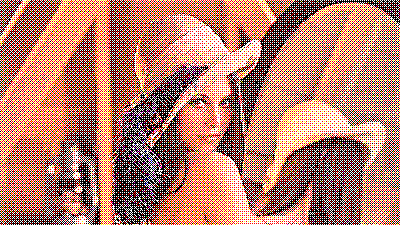
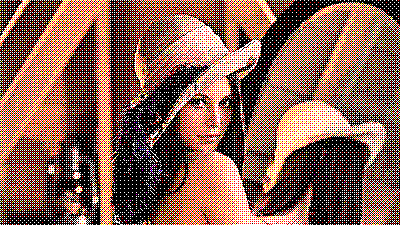
Update: 大津の手法

Changed region(s): [[0.0, 0.0, 1.0, 1.0]]

diff --git a/src/generator.py b/src/generator.py
@@ -12,14 +12,17 @@ def main():
     input_img_path = Path(f"image/input/{img_name}.jpg")
     output_img_path = Path(f"image/output/{img_name}.png")
     
+    # 画像読み込み
     input_img = cv2.imread(str(input_img_path))
+
+    # もろもろの処理
     resized_img = resize_img(input_img, resize_ratio)
-
-    corrected_img = saturation_up(gamma_correction(tonecurve(resized_img)), saturation_ratio)
+    corrected_img = saturation_up(gamma_curve(tone_curve(resized_img)), saturation_ratio)
     dithered_64color_img = process_dithering_64color(corrected_img)
+    binarized_img = binarize_img(dithered_64color_img)
 
-    # cv2.imwrite(str(output_img_path.with_name(f"{img_name}_dithered_64.png").as_posix()), dithered_64color_img)
-    cv2.imwrite(str(output_img_path), binarize_img(dithered_64color_img))
+    # 画像書き込み
+    cv2.imwrite(str(output_img_path), binarized_img)
 
 
 def process_dithering_8color(img):
@@ -33,18 +36,17 @@ def process_dithering_8color(img):
         [15, 7, 13, 5]
     ]) * (2**4)
     
-    # 画像サイズの取得, 処理後の画像を宣言
-    hight, width, ch = img.shape
+    # 画像サイズの取得
+    hight, width, _ = img.shape
 
     # 画像サイズのdither_matrixを取得(切り上げ演算)
     tiled_dither_matrix_grayscale = np.tile(dither_matrix, (-(-hight // 4), -(-width // 4)))[:hight, :width]
-    # 3ch化
     tiled_dither_matrix = np.stack(
         [tiled_dither_matrix_grayscale, tiled_dither_matrix_grayscale, tiled_dither_matrix_grayscale],
         axis=2
     )
 
-    return np.where((img < tiled_dither_matrix), 0, 255)
+    return np.where((img < tiled_dither_matrix), 0, 255).astype(np.uint8)
 
 
 
@@ -59,12 +61,11 @@ def process_dithering_64color(img):
         [15, 7, 13, 5]
     ]) * (2**4)
     
-    # 画像サイズの取得, 処理後の画像を宣言
-    hight, width, ch = img.shape
+    # 画像サイズの取得
+    hight, width, _ = img.shape
 
     # 画像サイズのdither_matrixを取得(切り上げ演算)
     tiled_dither_matrix_grayscale = np.tile(dither_matrix, (-(-hight // 4), -(-width // 4)))[:hight, :width]
-    # 3ch化
     tiled_dither_matrix = np.stack(
         [tiled_dither_matrix_grayscale, tiled_dither_matrix_grayscale, tiled_dither_matrix_grayscale],
         axis=2
@@ -75,24 +76,31 @@ def process_dithering_64color(img):
 
     # うまいこと4値化する
     processed_img = np.where((0 <= diff_img_matrix) & (diff_img_matrix < 255/4), 0, diff_img_matrix)
-    processed_img = np.where((255/4 <= diff_img_matrix) & (diff_img_matrix < 255/2), 255/3, processed_img)
-    processed_img = np.where((255/2 <= diff_img_matrix) & (diff_img_matrix < 255/4*3), 255/3*2, processed_img)
+    processed_img = np.where((255/4 <= diff_img_matrix) & (diff_img_matrix < 255/2), 255//3, processed_img)
+    processed_img = np.where((255/2 <= diff_img_matrix) & (diff_img_matrix < 255/4*3), 255//3*2, processed_img)
     processed_img = np.where((255/4*3 <= diff_img_matrix), 255, processed_img)
     
-    return processed_img
+    return processed_img.astype(np.uint8)
 
 
-# TODO: 実装
 def process_dithering_256color(img):
-    """ディザリングで R:G:B=3bit:3bit:2bit の64色へ減色
+    """ディザリングで R:G:B=3bit:3bit:2bit の256色へ減色
     """
-    return 0
+    # TODO: 実装
+    return 
 
 
 def binarize_img(img):
-    """2値化
+    """変わるかわからんが大津の手法を利用して2値化
+        NOTE: OpenCVの大津の手法はグレースケールしか対応してない
     """
-    _, processed_img = cv2.threshold(img, 128, 255, cv2.THRESH_BINARY)
+    # _, processed_img = cv2.threshold(img, 128, 255, cv2.THRESH_BINARY)
+    processed_img = np.zeros(img.shape)
+    b, g, r = cv2.split(img)
+    
+    _, processed_img[:, :, 0] = cv2.threshold(b, 0, 255, cv2.THRESH_BINARY+cv2.THRESH_OTSU)
+    _, processed_img[:, :, 1] = cv2.threshold(g, 0, 255, cv2.THRESH_BINARY+cv2.THRESH_OTSU)
+    _, processed_img[:, :, 2] = cv2.threshold(r, 0, 255, cv2.THRESH_BINARY+cv2.THRESH_OTSU)
     return processed_img
 
 
@@ -103,7 +111,7 @@ def resize_img(img, ratio):
     return processed_img
 
 
-def gamma_correction(img, gamma=2.2):
+def gamma_curve(img, gamma=2.2):
     """暗いところを持ち上げるように補正
     """
     nomalized_img = img.astype(np.float32) / 255
@@ -111,9 +119,9 @@ def gamma_correction(img, gamma=2.2):
     return (gammaed_img * 255).astype(np.uint8)
 
 
-def tonecurve(img):
+def tone_curve(img):
     """HSV色空間に変換して、明度(v)に対してヒストグラム平坦化
-        NOTE: 本当は逆S字トーンカーブをかけたかったけど、ちょうどいい関数がなかった
+        NOTE: 本当は逆S字トーンカーブをやりたかったけど、ちょうどいい関数を簡単に実装できなかった
     """
     img_hsv = cv2.cvtColor(img, cv2.COLOR_BGR2HSV)
     img_hsv[:, :, 2] = cv2.equalizeHist(img_hsv[:, :, 2])
@@ -124,6 +132,7 @@ def saturation_up(img, ratio=1.5):
     """HSV色空間に変換して、彩度(s)をあげる
     """
     img_hsv = cv2.cvtColor(img, cv2.COLOR_BGR2HSV)
+    img_hsv[:, :, 2] = cv2.equalizeHist(img_hsv[:, :, 2])
     img_hsv[:, :, 1] = img_hsv[:, :, 1] * ratio
     return cv2.cvtColor(img_hsv,cv2.COLOR_HSV2BGR)
 
